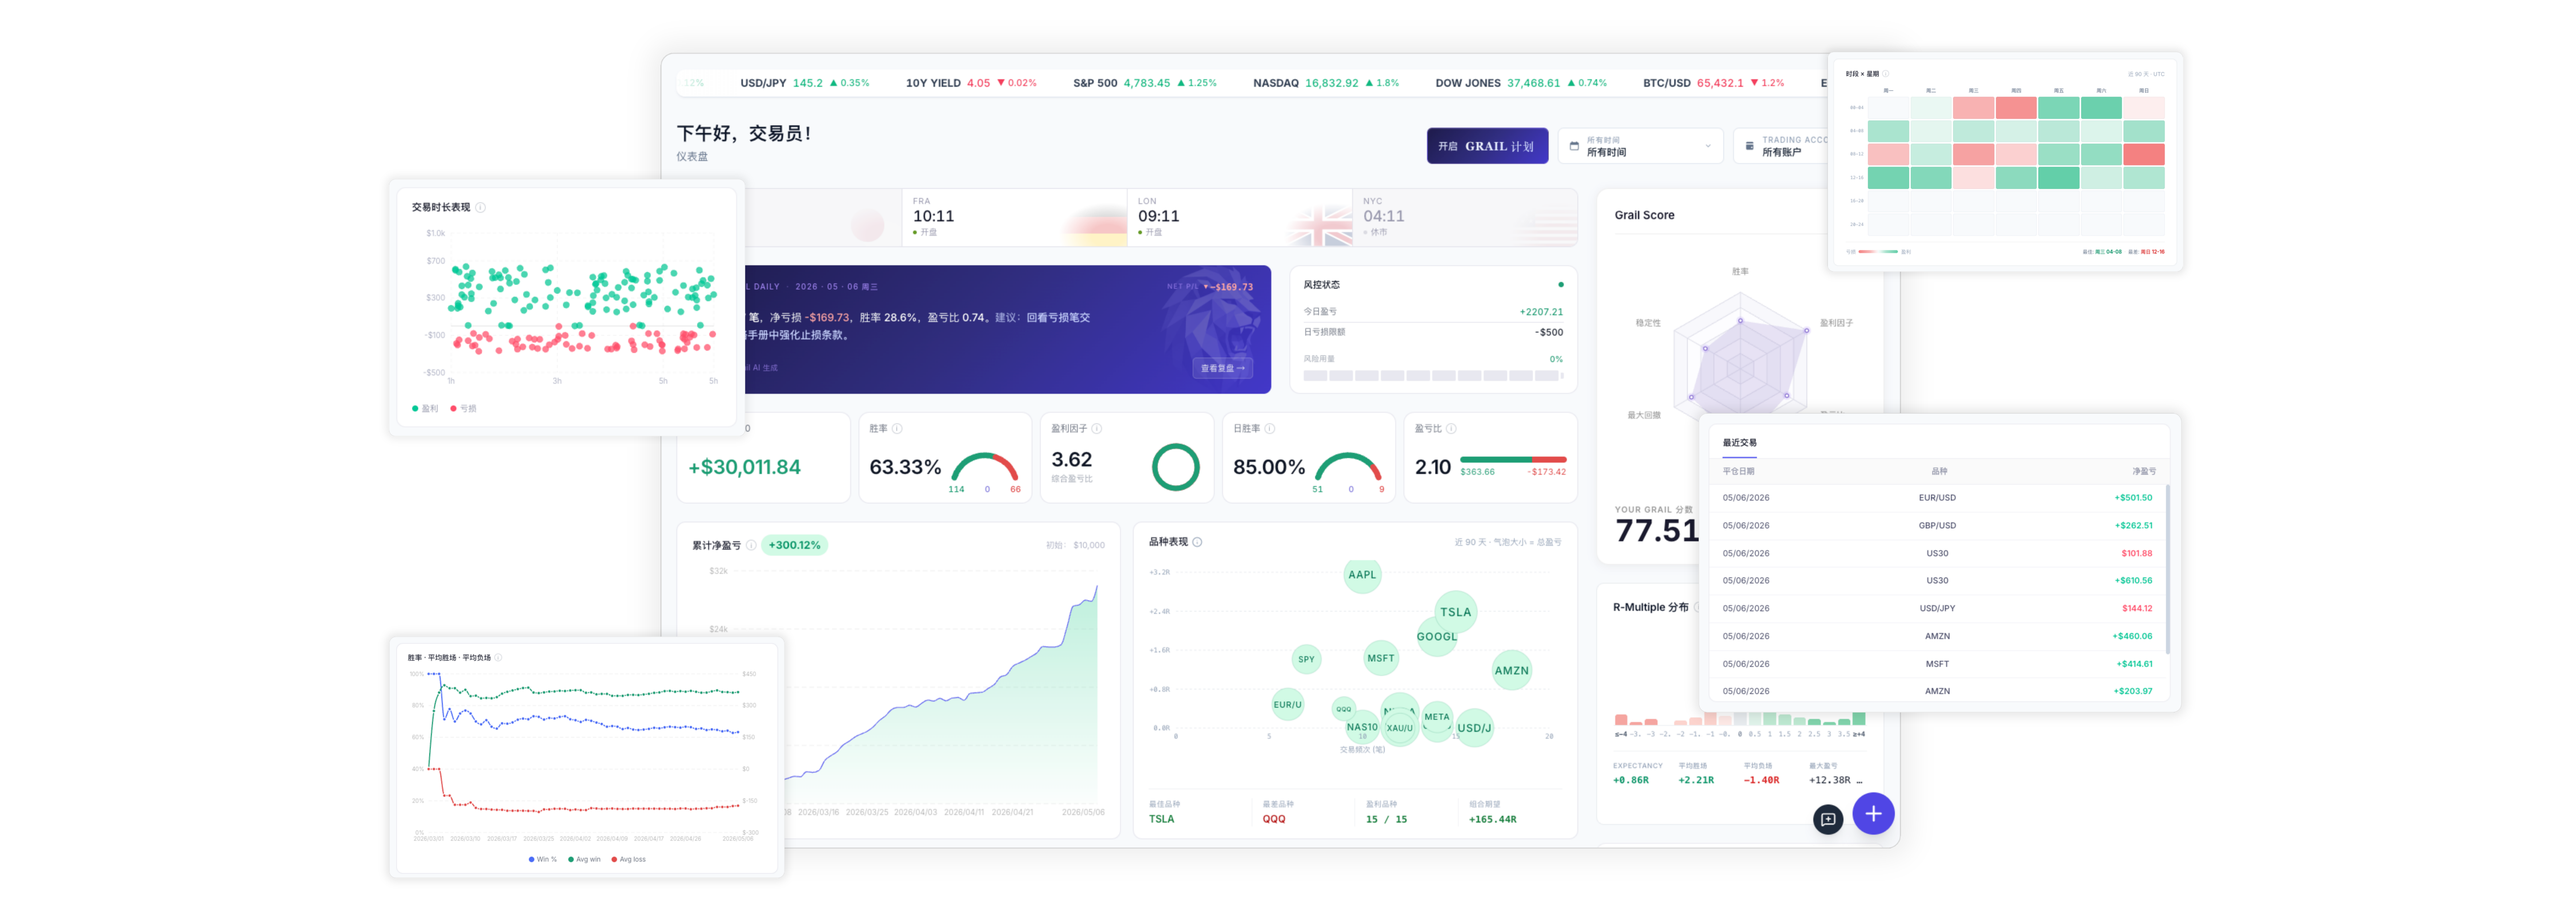
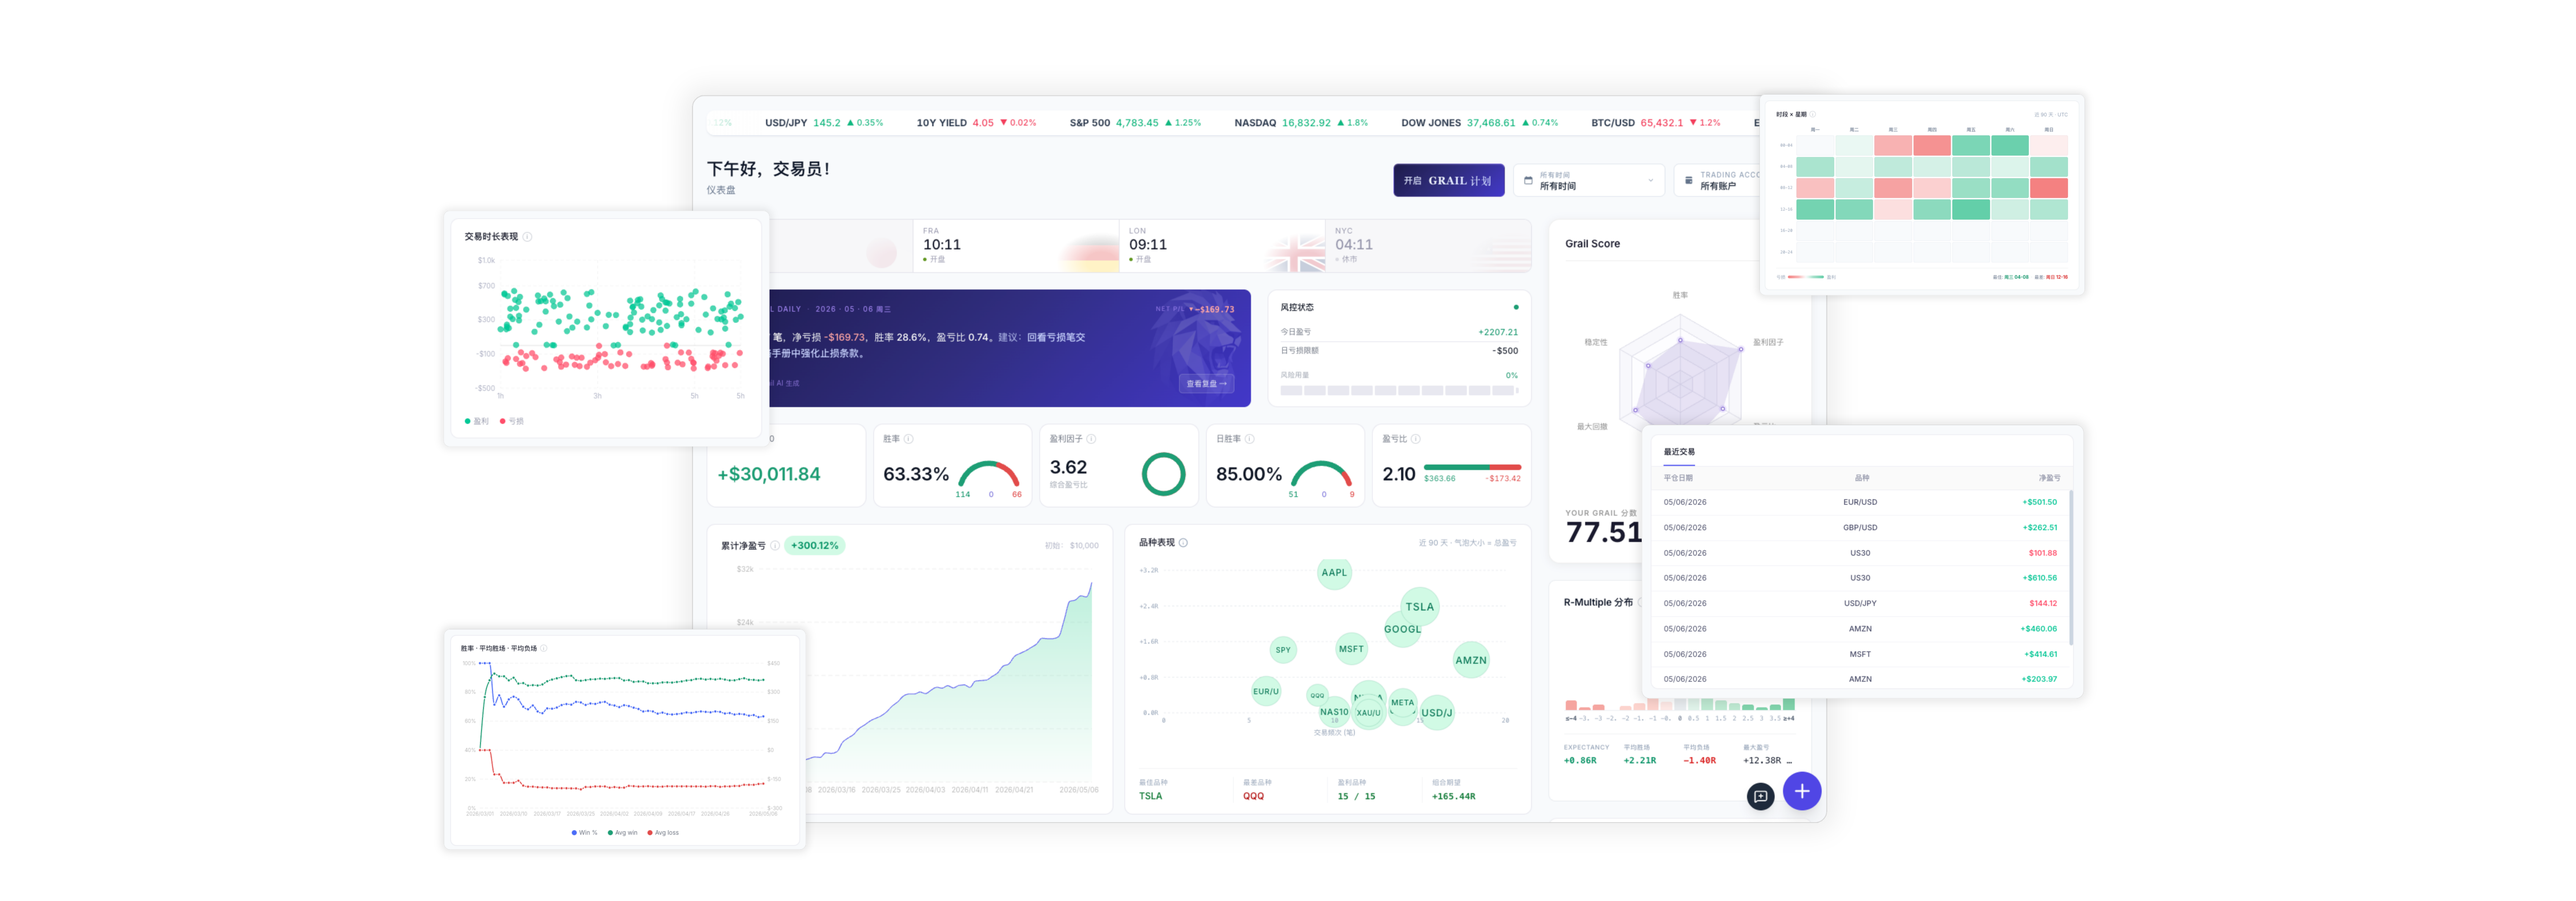
Revert dashboard image back to original PNG (transparent background)

diff --git a/src/components/ShowcaseSection.tsx b/src/components/ShowcaseSection.tsx
@@ -26,7 +26,7 @@ export const ShowcaseSection = () => {
           transition={{ duration: 0.8, ease: "easeOut" }}
         >
           <img
-            src="/lddashboard.jpg"
+            src="/lddashboard.png"
             alt="TradeGrail Dashboard"
             className="w-full h-auto block"
           />
